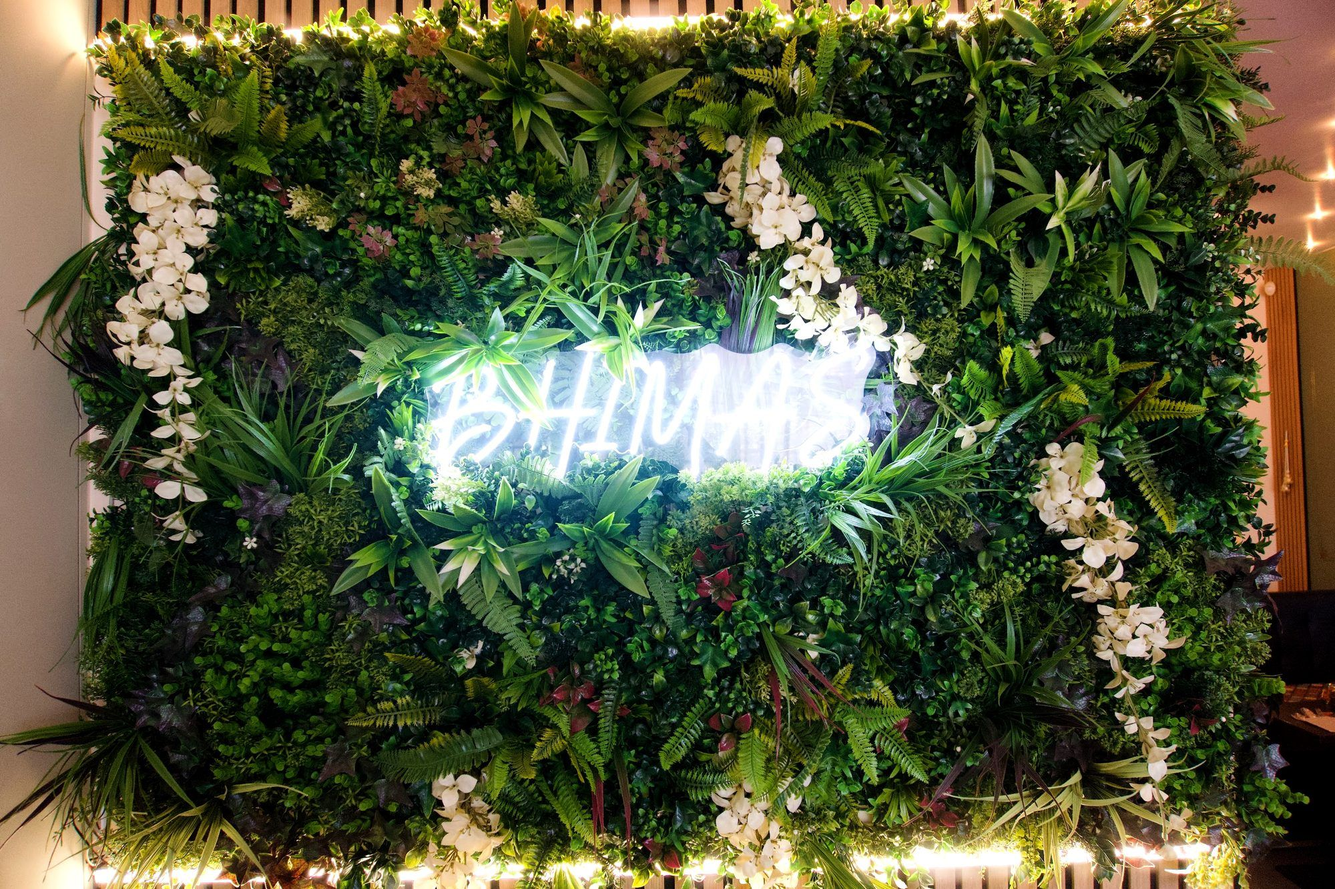
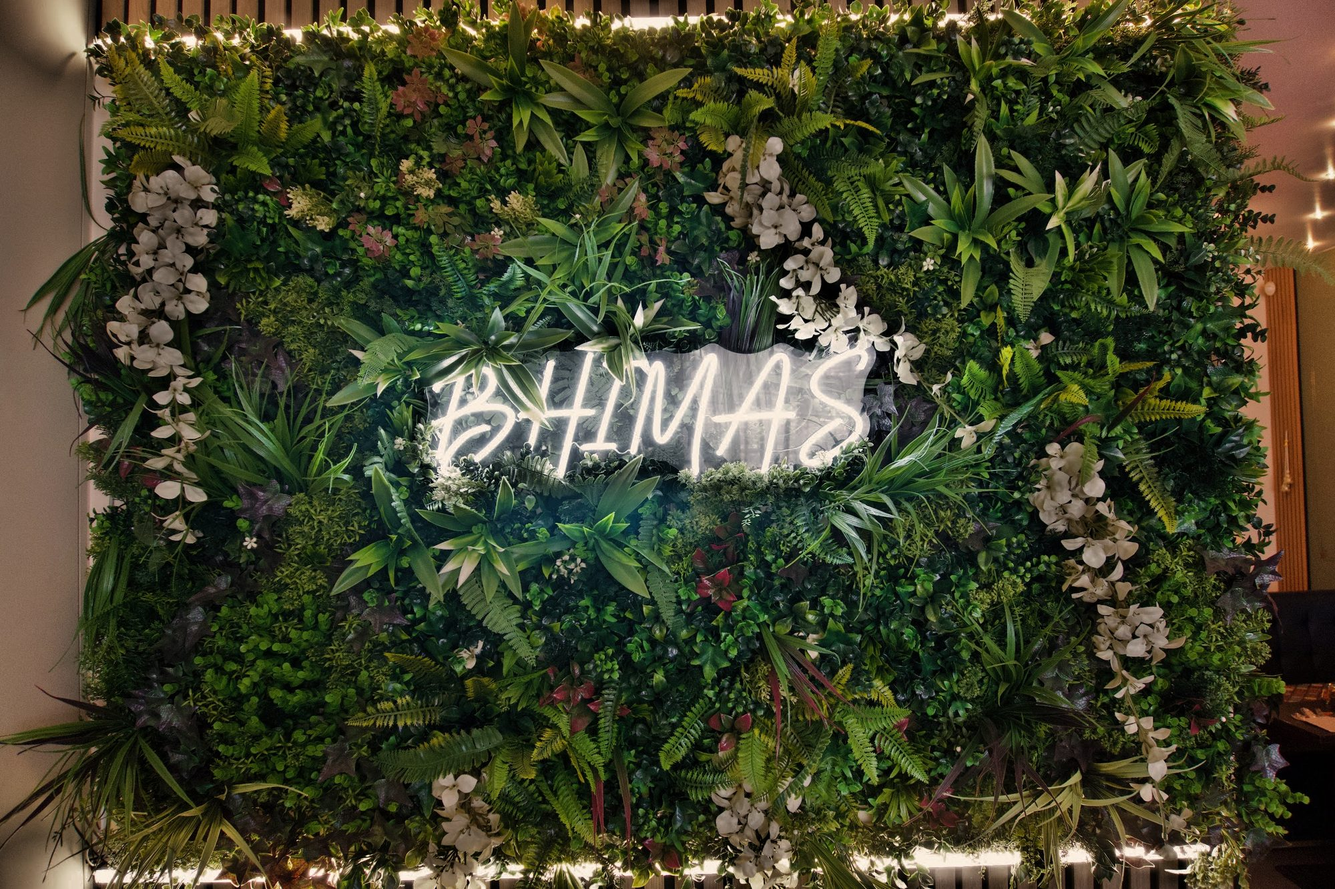
demo(bhimas): their voice on the Gada page, dinner hours, a calmer Home
- The Gada page leads with their two reel lines and invites family and
  friends; the button says Play the game.
- Visit shows the opening hours set on Google.
- Home: medallion in the nav, Telugu and title alone in the hero, every
  strip in one style.
- The neon is regraded so BHIMAS reads.

diff --git a/demo/bhimas/assets/js/i18n.js b/demo/bhimas/assets/js/i18n.js
@@ -26,6 +26,7 @@
       'alt.ragi': 'Raagi mudda with chicken curry on a banana leaf at Bhimas',
       'alt.thali': 'A thali at Bhimas: biryani, curries, naan and sweets on a banana leaf',
       'alt.vegthali': 'A vegetarian thali at Bhimas: bowls of dal, chickpeas, vegetable curries and curd around a naan',
+      'hours': 'Opening hours', 'days.satsun': 'Saturday and Sunday', 'days.mon': 'Monday', 'closed': 'Closed',
       'g.ragi': 'Soft balls of finger millet',
       'g.fish': 'Fish in a tangy tamarind curry',
       'g.uggani': 'Spiced puffed rice with green-chilli fritters',
@@ -46,7 +47,7 @@
       'find.aria': 'Find us',
       // game
       'g.nav': 'Game', 'g.help': 'Replay the demo', 'g.sound': 'Sound', 'g.pause': 'Pause', 'g.order': 'Order card',
-      'g.rule': 'Catch what the card asks for. Dodge the chillies.',
+      'g.rule': 'Catch what the card asks for. Mind the chillies.',
       'g.start': 'Start', 'g.retry': 'Try again', 'g.score': 'Score', 'g.best': 'Best', 'g.paused': 'Pause',
       'g.caught': '{d} caught', 'g.slotCaught': '{d}, caught', 'g.dup': 'Already have {d}',
       'g.chilliKnock': 'Chilli! {d} knocked off', 'g.chilli': 'Chilli!', 'g.time': 'Time is up',
@@ -73,6 +74,7 @@
       'alt.ragi': 'Raagi mudda et curry de poulet sur une feuille de bananier, chez Bhimas',
       'alt.thali': 'Un thali chez Bhimas : biryani, currys, naan et douceurs sur une feuille de bananier',
       'alt.vegthali': 'Un thali végétarien chez Bhimas : bols de dal, pois chiches, currys de légumes et yaourt autour d’un naan',
+      'hours': 'Heures d’ouverture', 'days.satsun': 'Samedi et dimanche', 'days.mon': 'Lundi', 'closed': 'Fermé',
       'g.ragi': 'Boules moelleuses de millet rouge (éleusine)',
       'g.fish': 'Poisson au curry acidulé de tamarin',
       'g.uggani': 'Riz soufflé épicé et beignets de piment vert',
@@ -90,7 +92,7 @@
       'alt.dining': "La salle : tables sombres et sets de table à motif de carreaux, murs verts ornés de peintures du Sud de l'Inde",
       'find.aria': 'Nous trouver',
       'g.nav': 'Jeu', 'g.help': 'Revoir la démonstration', 'g.sound': 'Son', 'g.pause': 'Pause', 'g.order': 'Carte de commande',
-      'g.rule': 'Attrapez ce que demande la carte. Évitez les piments.',
+      'g.rule': 'Attrapez ce que demande la carte. Gare aux piments.',
       'g.start': 'Jouer', 'g.retry': 'Réessayer', 'g.score': 'Score', 'g.best': 'Record', 'g.paused': 'Pause',
       'g.caught': 'Attrapé : {d}', 'g.slotCaught': '{d}, attrapé', 'g.dup': 'Déjà sur la feuille : {d}',
       'g.chilliKnock': 'Piment ! Tombé : {d}', 'g.chilli': 'Piment !', 'g.time': 'Temps écoulé',
@@ -117,6 +119,7 @@
       'alt.ragi': 'Raagi Mudda mit Hähnchencurry auf einem Bananenblatt bei Bhimas',
       'alt.thali': 'Ein Thali bei Bhimas: Biryani, Currys, Naan und Süßes auf einem Bananenblatt',
       'alt.vegthali': 'Ein vegetarisches Thali bei Bhimas: Schälchen mit Dal, Kichererbsen, Gemüsecurrys und Joghurt rund um ein Naan',
+      'hours': 'Öffnungszeiten', 'days.satsun': 'Samstag und Sonntag', 'days.mon': 'Montag', 'closed': 'Geschlossen',
       'g.ragi': 'Weiche Bällchen aus Fingerhirse',
       'g.fish': 'Fisch in säuerlichem Tamarindencurry',
       'g.uggani': 'Gewürzter Puffreis mit frittierten grünen Chilis',
@@ -134,7 +137,7 @@
       'alt.dining': 'Der Gastraum: dunkle Tische mit Platzsets im Fliesenmuster, grüne Wände mit südindischen Gemälden',
       'find.aria': 'So finden Sie uns',
       'g.nav': 'Spiel', 'g.help': 'Demo noch einmal ansehen', 'g.sound': 'Ton', 'g.pause': 'Pause', 'g.order': 'Bestellkarte',
-      'g.rule': 'Fang, was die Karte verlangt. Weich den Chilis aus.',
+      'g.rule': 'Fang, was die Karte verlangt. Vorsicht, Chilis!',
       'g.start': 'Start', 'g.retry': 'Noch einmal', 'g.score': 'Punkte', 'g.best': 'Rekord', 'g.paused': 'Pause',
       'g.caught': 'Gefangen: {d}', 'g.slotCaught': '{d}, gefangen', 'g.dup': 'Schon auf dem Blatt: {d}',
       'g.chilliKnock': 'Chili! Verloren: {d}', 'g.chilli': 'Chili!', 'g.time': 'Die Zeit ist um',

diff --git a/demo/bhimas/index.html b/demo/bhimas/index.html
@@ -32,7 +32,7 @@
 
 <nav class="nav" aria-label="Main" data-t-aria="nav.aria">
   <ul class="nav__links">
-    <li><a href="./" aria-current="page" data-t="nav.home">Home</a></li>
+    <li><a class="nav__mark" href="./" aria-current="page" aria-label="Home" data-t-aria="nav.home"><img src="assets/img/logo-medallion.png" alt="" width="319" height="320"></a></li>
     <li><a href="food.html" data-t="nav.food">Food</a></li>
     <li><a href="gada.html" data-t="nav.gada">The Gada</a></li>
     <li><a href="visit.html" data-t="nav.visit">Visit</a></li>
@@ -54,19 +54,16 @@
   <div class="hero__roller" aria-hidden="true"></div>
 
   <div class="hero__title">
-    <div class="mark">
-      <img class="mark__logo" src="assets/img/logo-medallion.png" alt="Bhimas Traditional Indian Kitchen" width="319" height="320">
-      <p class="mark__line">Traditional flavours. Warm hospitality.</p>
-    </div>
-    <p class="welcome" lang="te"><span class="welcome__te">స్వాగతం-సుస్వాగతం</span> <span class="welcome__en" lang="en">Welcome</span></p>
+    <p class="welcome" lang="te"><span class="welcome__te">స్వాగతం-సుస్వాగతం</span></p>
     <h1 class="block" lang="en">
       <span class="block__ln"><span class="block__sm">Lift<br class="br-d"> the</span> <span class="block__lg">Gada.</span></span>
       <span class="block__ln"><span class="block__sm">Earn<br class="br-d"> the</span> <span class="block__lg">Biryani.</span></span>
     </h1>
   </div>
 
-  <p class="credits">
-    <span class="only-m">Traditional flavours. Warm hospitality.</span><span>Andhra &amp; Telangana</span><i>·</i><span data-t="veg">Veg &amp; Non-Veg</span><i>·</i><span class="credits__lunch"><span class="nw"><span data-t="lunch">Lunch Buffet</span> · <span data-t="days.tuefri">Tuesday to Friday</span></span><span class="credits__sep"> · </span><span class="nw" data-t="time.lunch">12:00 PM - 02:00PM</span></span><i>·</i><a href="https://maps.google.com/?cid=10481551621272200989">4b Dernier Sol, Bonnevoie</a><i>·</i><a href="tel:+35227532549">+352 27 53 25 49</a>
+  <p class="credits credits--two">
+    <span class="credits__row"><span class="credits__tag" lang="en">Traditional flavours. Warm hospitality.</span><i>·</i><span>Andhra &amp; Telangana</span><i>·</i><span data-t="veg">Veg &amp; Non-Veg</span><i>·</i><span class="nw"><span data-t="lunch">Lunch Buffet</span> · <span data-t="days.tuefri">Tuesday to Friday</span> · <span data-t="time.lunch">12:00 PM - 02:00PM</span></span></span>
+    <span class="credits__row"><a href="https://maps.google.com/?cid=10481551621272200989">4b Dernier Sol, Bonnevoie</a><i>·</i><a href="tel:+35227532549">+352 27 53 25 49</a></span>
   </p>
 </header>
 
@@ -82,7 +79,7 @@
   <a class="poster poster--gada" href="gada.html">
     <span class="poster__art" aria-hidden="true"><img src="assets/img/poster-gada.jpg" alt="" width="800" height="1429" loading="lazy"></span>
     <span class="poster__t" data-t="nav.gada">The Gada</span>
-    <span class="poster__say" lang="en">Only the Strong Can Lift This</span>
+    <span class="poster__say" lang="en">Challenge Accepted. Strength Proven.</span>
   </a>
   <a class="poster poster--game" href="feast.html">
     <span class="poster__art" aria-hidden="true"><img src="assets/img/poster-game.jpg" alt="" width="800" height="1429" loading="lazy">

diff --git a/demo/bhimas/gada.html b/demo/bhimas/gada.html
@@ -5,7 +5,7 @@
 <meta name="viewport" content="width=device-width, initial-scale=1">
 <meta name="robots" content="noindex, nofollow">
 <title data-t="title.gada">The Gada · Bhimas Indian Kitchen &amp; Bar</title>
-<meta name="description" content="Only the Strong Can Lift This. ONE MAN. ONE LIFT. ONE EPIC MOMENT. Do you have what it takes to conquer the Bhimas Gada Challenge?">
+<meta name="description" content="Lift the Gada. Earn the Biryani. Bring your family and friends.">
 <meta name="theme-color" content="#1d140d">
 <link rel="icon" type="image/png" href="assets/img/favicon.png">
 <script>
@@ -32,7 +32,7 @@
 
 <nav class="nav" aria-label="Main" data-t-aria="nav.aria">
   <ul class="nav__links">
-    <li><a href="./" data-t="nav.home">Home</a></li>
+    <li><a class="nav__mark" href="./" aria-label="Home" data-t-aria="nav.home"><img src="assets/img/logo-medallion.png" alt="" width="319" height="320"></a></li>
     <li><a href="food.html" data-t="nav.food">Food</a></li>
     <li><a href="gada.html" aria-current="page" data-t="nav.gada">The Gada</a></li>
     <li><a href="visit.html" data-t="nav.visit">Visit</a></li>
@@ -54,8 +54,8 @@
 
   <div class="gada__body" lang="en">
     <div class="gada__head">
-      <h1 class="disp" id="gada-h">Only the <br>Strong Can <br>Lift This</h1>
-      <p class="epic"><span>One man.</span> <span>One lift.</span> <span>One epic moment.</span></p>
+      <h1 class="disp" id="gada-h"><span class="nw">Lift the Gada.</span> <br><span class="nw">Earn the Biryani.</span></h1>
+      <p class="epic"><span>Bring your family and friends</span></p>
     </div>
 
     <div class="proof">
@@ -83,9 +83,8 @@
 
   <div class="play__band" lang="en">
     <h2 class="play__h" id="play-h">Bhimas Gada Challenge</h2>
-    <p class="play__q">Do you have what it takes to conquer the Bhimas Gada Challenge?</p>
-    <p class="play__say">Step up, grab the legendary Gada, and prove your strength.</p>
-    <p class="go"><a class="cta" href="feast.html">Challenge Accepted.</a></p>
+    <p class="play__q" data-t="g.rule">Catch what the card asks for. Mind the chillies.</p>
+    <p class="go"><a class="cta" href="feast.html" data-t="poster.play">Play the game</a></p>
   </div>
 </section>
 </main>

diff --git a/demo/bhimas/visit.html b/demo/bhimas/visit.html
@@ -32,7 +32,7 @@
 
 <nav class="nav" aria-label="Main" data-t-aria="nav.aria">
   <ul class="nav__links">
-    <li><a href="./" data-t="nav.home">Home</a></li>
+    <li><a class="nav__mark" href="./" aria-label="Home" data-t-aria="nav.home"><img src="assets/img/logo-medallion.png" alt="" width="319" height="320"></a></li>
     <li><a href="food.html" data-t="nav.food">Food</a></li>
     <li><a href="gada.html" data-t="nav.gada">The Gada</a></li>
     <li><a href="visit.html" aria-current="page" data-t="nav.visit">Visit</a></li>
@@ -88,6 +88,10 @@
       <p class="ticket__h ticket__h--addr"><a href="https://maps.google.com/?cid=10481551621272200989"><span class="nw">4b Dernier Sol,</span> <span class="nw">2543 Bonnevoie,</span> <span class="nw">Luxembourg</span></a></p>
       <p class="ticket__tel"><a href="tel:+35227532549">+352 27 53 25 49</a></p>
       <ul class="ticket__hours">
+        <li><b data-t="hours">Opening hours</b></li>
+        <li><span class="nw" data-t="days.tuefri">Tuesday to Friday</span> <i>·</i> <span class="nw">12:00 - 14:00</span> <i>·</i> <span class="nw">18:00 - 22:00</span></li>
+        <li><span class="nw" data-t="days.satsun">Saturday and Sunday</span> <i>·</i> <span class="nw">12:00 - 15:00</span> <i>·</i> <span class="nw">18:00 - 22:00</span></li>
+        <li><span class="nw" data-t="days.mon">Monday</span> <i>·</i> <span class="nw" data-t="closed">Closed</span></li>
         <li><b data-t="lunch">Lunch Buffet</b> <i>·</i> <span class="nw" data-t="days.tuefri">Tuesday to Friday</span> <i>·</i> <span class="nw" data-t="time.lunch">12:00 PM - 02:00PM</span></li>
         <li><b data-t="weekend">Weekend Specials</b> <i>·</i> <span class="nw" data-t="days.weekend">Friday Evening to Sunday Evening</span></li>
       </ul>

diff --git a/demo/bhimas/assets/css/site.css b/demo/bhimas/assets/css/site.css
@@ -741,3 +741,25 @@ br.br-d { display: none; }
   .nav ul { gap: 7px; }
 }
 .ticket__list small { display: block; font: 500 var(--small)/1.3 var(--f-body); opacity: .82; }
+
+/* ---------- r21: nav in the body face, medallion as the brand mark ---------- */
+.nav { font: 600 var(--small)/1 var(--f-body); text-transform: none; letter-spacing: 0; }
+.nav__links { align-items: center; }
+.nav__mark { display: block; padding: 0; border: 0 !important; line-height: 0; }
+.nav__mark img { display: block; height: calc(var(--nav-h) - 8px); width: auto; }
+
+/* r21: the Home hero holds two things, the Telugu and the title; the tagline lives in the strip */
+@media (max-width: 819px) { .credits__tag { flex-basis: 100%; } .credits__tag + i { display: none; } }
+
+/* r21: every strip is one style: body face, cream, no underlines; gold marks the links */
+.credits { font: 600 var(--small)/1.45 var(--f-body); text-transform: none; letter-spacing: .01em; }
+.credits a { border-bottom: 0; color: var(--gold); }
+.credits a:hover, .credits a:focus-visible { color: var(--cream); }
+.credits--two { flex-direction: column; align-items: center; gap: 2px; }
+.credits__row { display: flex; flex-wrap: wrap; justify-content: center; gap: 2px 10px; }
+@media (max-width: 819px) { .credits__row { gap: 2px 14px; } }
+
+/* r21: the Gada page title carries their two-line headline */
+.gada--hero .disp { font-size: clamp(36px, 5vw, 80px); }
+.gada--hero .epic { font-size: clamp(18px, 2vw, 28px); width: fit-content; }
+.gada--hero .epic span { white-space: nowrap; }

diff --git a/demo/bhimas/feast.html b/demo/bhimas/feast.html
@@ -5,7 +5,7 @@
 <meta name="viewport" content="width=device-width, initial-scale=1, viewport-fit=cover">
 <meta name="robots" content="noindex, nofollow">
 <title data-t="title.game">Bhimas Gada Challenge · Bhimas Indian Kitchen &amp; Bar</title>
-<meta name="description" content="Do you have what it takes to conquer the Bhimas Gada Challenge? Bhimas Indian Kitchen &amp; Bar, 4b Dernier Sol, 2543 Bonnevoie, Luxembourg.">
+<meta name="description" content="Lift the Gada. Earn the Biryani. Bhimas Indian Kitchen &amp; Bar, 4b Dernier Sol, 2543 Bonnevoie, Luxembourg.">
 <meta name="theme-color" content="#1d140d">
 <link rel="icon" type="image/png" href="assets/img/favicon.png">
 <script>
@@ -59,7 +59,7 @@
     <img class="medal" src="assets/img/logo-medallion.png" alt="Bhimas Traditional Indian Kitchen" width="319" height="320">
     <h1 class="disp" id="start-h">Bhimas Gada <br>Challenge</h1>
     <p class="accent">Lift the Gada. Earn the Biryani.</p>
-    <p class="plate" data-t="g.rule">Catch what the card asks for. Dodge the chillies.</p>
+    <p class="plate" data-t="g.rule">Catch what the card asks for. Mind the chillies.</p>
     <button class="big js-start" type="button" data-t="g.start">Start</button>
     <p class="best-line"><span data-t="g.best">Best</span> <b class="js-best">0</b></p>
     <p class="disc-g" data-t="disc">An unofficial website proposal by Webwerk, built from public information and photos, not affiliated with the venue. Anonymous visit statistics, with no cookies and no personal data.</p>

diff --git a/demo/bhimas/food.html b/demo/bhimas/food.html
@@ -32,7 +32,7 @@
 
 <nav class="nav" aria-label="Main" data-t-aria="nav.aria">
   <ul class="nav__links">
-    <li><a href="./" data-t="nav.home">Home</a></li>
+    <li><a class="nav__mark" href="./" aria-label="Home" data-t-aria="nav.home"><img src="assets/img/logo-medallion.png" alt="" width="319" height="320"></a></li>
     <li><a href="food.html" aria-current="page" data-t="nav.food">Food</a></li>
     <li><a href="gada.html" data-t="nav.gada">The Gada</a></li>
     <li><a href="visit.html" data-t="nav.visit">Visit</a></li>
